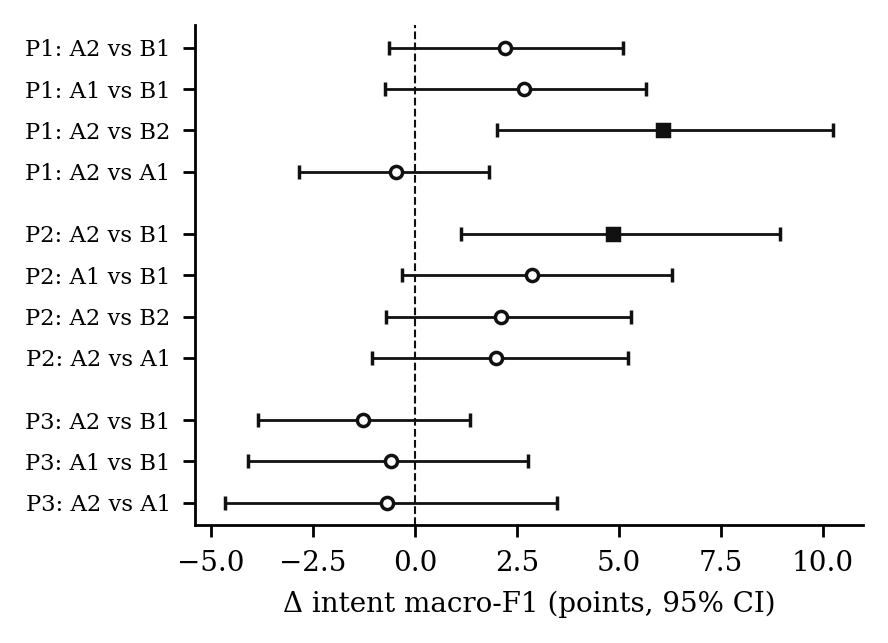
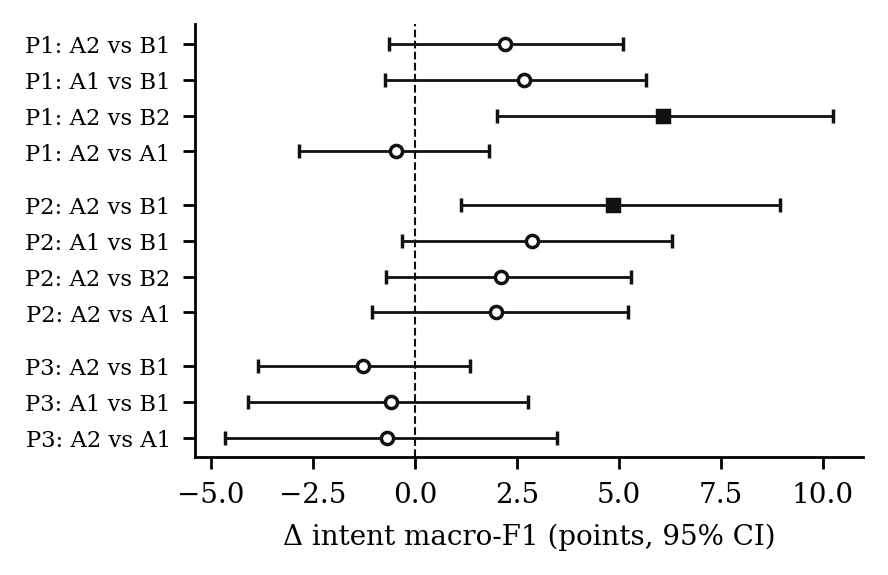
Trim paper toward 8 pages, fix author block and acknowledgment

diff --git a/paper/main.tex b/paper/main.tex
@@ -20,7 +20,8 @@
 
 \author{
 \IEEEauthorblockN{Mihir Bhati\IEEEauthorrefmark{1}}
-\IEEEauthorblockA{\textit{School of Computer Science and Engineering}\\
+\IEEEauthorblockA{\textit{School of Computer Science}\\
+\textit{and Engineering}\\
 \textit{Vellore Institute of Technology}\\
 Chennai, India\\
 24BCE5341\\
@@ -28,14 +29,16 @@ Chennai, India\\
 email@vitstudent.ac.in}
 \and
 \IEEEauthorblockN{Ahana Sharan\IEEEauthorrefmark{1}}
-\IEEEauthorblockA{\textit{School of Computer Science and Engineering}\\
+\IEEEauthorblockA{\textit{School of Computer Science}\\
+\textit{and Engineering}\\
 \textit{Vellore Institute of Technology}\\
 Chennai, India\\
 24BCE5334\\
 ahana.sharan2024@vitstudent.ac.in}
 \and
 \IEEEauthorblockN{Vijayaprabakaran K}
-\IEEEauthorblockA{\textit{School of Computer Science and Engineering}\\
+\IEEEauthorblockA{\textit{School of Computer Science}\\
+\textit{and Engineering}\\
 \textit{Vellore Institute of Technology}\\
 Chennai, India\\
 % TODO: add the guide's email
@@ -61,7 +64,7 @@ A task-oriented assistant turns an utterance such as \emph{``wake me up at seven
 
 Small instruction-tuned language models (LMs) remove the training step. A 3-billion-parameter model quantised to 4 bits runs on a laptop GPU with 4\,GB of memory, answers in under half a second and can follow a label inventory from a handful of examples. What it does not remove is design work. The developer still has to decide whether intent and slots are requested in one call or two, whether the prompt describes each label, which demonstrations go into the prompt, and whether out-of-scope (\oos) requests are rejected by the model or by a similarity threshold. These choices matter. With the model and data held fixed, the twelve combinations we study span 13.5 points of development intent macro-F1 on one project (0.839 to 0.974) and 16.0 points on another (0.738 to 0.898).
 
-Work on automating LM use has concentrated on rewriting instruction text~\cite{zhou2023large,pryzant2023automatic,yang2024large}, tuning the demonstrations of a fixed program~\cite{khattab2024dspy}, or replacing the LM with a fine-tuned small model~\cite{viswanathan2023prompt2model}. These methods optimise a single output metric. None of them produces a joint intent and span output with a rejection decision under hard deployment constraints, and they are rarely compared with random search over the same space at the same budget, which is the standard control for any adaptive search method~\cite{bergstra2012random}. Without that control it is not possible to say whether the LM's reasoning contributed anything beyond trying several options.
+Work on automating LM use has concentrated on rewriting instruction text~\cite{zhou2023large,pryzant2023automatic,yang2024large}, tuning the demonstrations of a fixed program~\cite{khattab2024dspy}, or replacing the LM with a fine-tuned small model~\cite{viswanathan2023prompt2model}. None of these produces a joint intent and span output with a rejection decision under deployment constraints, and they are rarely compared with random search at the same budget, the standard control for adaptive search~\cite{bergstra2012random}. Without that control, the contribution of the LM's reasoning cannot be separated from simply trying several options.
 
 This paper asks whether an LM agent with a budget of four candidate evaluations can design an intent and slot pipeline that beats a generic prompt, random search, a human designer and a fine-tuned encoder trained on the same examples. The contributions are:
 \begin{enumerate}
@@ -79,33 +82,33 @@ This section focuses on an extensive survey of fifteen works that define the dat
 
 \subsection{NLU datasets and fine-tuned models}
 
-\emph{FitzGerald et al.}~\cite{fitzgerald2023massive} released MASSIVE, one million utterances in 51 languages localised by professional translators from the English SLURP corpus~\cite{bastianelli2020slurp}. Each utterance carries one of 60 intents across 18 scenarios and span annotations over 55 slot types. Their baselines fine-tune XLM-R and mT5 on the full training split, so the reported scores assume thousands of labelled utterances per language. We use the English portion and restrict each project to a few scenarios, which turns MASSIVE into a set of small, realistic single-product inventories.
+\emph{FitzGerald et al.}~\cite{fitzgerald2023massive} released MASSIVE, one million utterances in 51 languages localised by professional translators from the English SLURP corpus~\cite{bastianelli2020slurp}. Each utterance carries one of 60 intents across 18 scenarios and span annotations over 55 slot types. Their XLM-R and mT5 baselines are fine-tuned on the full training split. We use the English portion and restrict each project to a few scenarios, which yields small, realistic single-product inventories.
 
-\emph{Larson et al.}~\cite{larson2019evaluation} built CLINC150, 150 intents over ten domains plus a separate set of queries that match none of them. They showed that classifiers with high in-scope accuracy recall few out-of-scope queries, whether rejection is done by a confidence threshold or by an extra ``out-of-scope'' class trained on examples. Their result is the reason our design space treats rejection as a factor in its own right and our metrics report \oos{} F1 separately from intent accuracy.
+\emph{Larson et al.}~\cite{larson2019evaluation} built CLINC150, 150 intents over ten domains plus a separate set of queries that match none of them. They showed that classifiers with high in-scope accuracy recall few out-of-scope queries, whether rejection is done by a confidence threshold or by an extra ``out-of-scope'' class trained on examples. For this reason our design space treats rejection as a separate factor and we report \oos{} F1 separately.
 
 \emph{Chen et al.}~\cite{chen2019bert} predicted the intent from BERT's sentence representation and the slot tags from its token representations, training both objectives together. On ATIS and Snips, joint training improved intent accuracy, slot F1 and whole-utterance accuracy over earlier recurrent and attention-based models. Joint encoders remain the reference architecture for intent and slot tasks, and our fine-tuned baseline follows the same two-head design.
 
-\emph{Conneau et al.}~\cite{conneau2020unsupervised} trained XLM-R, a masked language model, on 2.5\,TB of filtered web text in 100 languages and reported strong cross-lingual transfer on classification, question answering and named entity recognition. MASSIVE adopts XLM-R as its main encoder baseline. We fine-tune its base version twice: on the same ten utterances per intent the agent sees, and on the project's full training split.
+\emph{Conneau et al.}~\cite{conneau2020unsupervised} trained XLM-R, a masked language model, on 2.5\,TB of filtered web text in 100 languages and reported strong cross-lingual transfer on classification, question answering and named entity recognition. We fine-tune its base version on the ten utterances per intent the agent sees and on each project's full training split.
 
 \subsection{In-context learning and example selection}
 
-\emph{Brown et al.}~\cite{brown2020language} showed that a sufficiently large autoregressive LM can perform a new task from an instruction and a few demonstrations placed in its prompt, without any weight update, and that accuracy rises with the number of demonstrations and with model size. Once the task is specified through the prompt, what the prompt contains and how many calls are made become design decisions; our design space enumerates the decisions that matter for intent and slot output.
+\emph{Brown et al.}~\cite{brown2020language} showed that a sufficiently large autoregressive LM can perform a new task from an instruction and a few demonstrations placed in its prompt, without any weight update, and that accuracy rises with the number of demonstrations and with model size. Once a task is specified through the prompt, its contents and the number of calls become design decisions, which our design space enumerates.
 
 \emph{Liu et al.}~\cite{liu2022makes} retrieved, for each test input, the training examples nearest to it in a sentence-encoder space and placed them in the prompt. Nearest-neighbour demonstrations beat randomly sampled ones on sentiment analysis, table-to-text generation and open-domain question answering. Our similarity-based example selection applies the same idea with a lexical TF-IDF index, which costs nothing at request time and needs no second model.
 
 \subsection{Automatic prompt and program optimisation}
 
-\emph{Zhou et al.}~\cite{zhou2023large} proposed Automatic Prompt Engineer (APE): an LM writes candidate instructions from input--output pairs, each candidate is scored on held-out examples, and the best is kept or resampled. The generated instructions matched or exceeded human-written ones on most of the instruction-induction tasks they tested. APE searches over free text, so its output is a prompt rather than a pipeline, and its tasks have a single label or string as output.
+\emph{Zhou et al.}~\cite{zhou2023large} proposed Automatic Prompt Engineer (APE): an LM writes candidate instructions from input--output pairs, each candidate is scored on held-out examples, and the best is kept or resampled. The generated instructions matched or exceeded human-written ones on most instruction-induction tasks tested. APE's output is a prompt, not a pipeline, for tasks with a single label or string as output.
 
 \emph{Pryzant et al.}~\cite{pryzant2023automatic} described the errors of a prompt on a minibatch in natural language, treated that description as a ``gradient'', edited the prompt against it, and kept the best edits with beam search and a bandit procedure. The method improved initial prompts on several binary classification tasks. Our revision phase borrows the idea of showing the model an error report, but confines its answer to one move in a discrete space, so a wrong suggestion costs one evaluation and cannot produce an unrunnable pipeline.
 
 \emph{Yang et al.}~\cite{yang2024large} cast optimisation as prompting (OPRO): the meta-prompt lists earlier solutions with their scores and the LM proposes a new one. They applied it to small regression and travelling-salesman instances and to instruction search on GSM8K and Big-Bench Hard. OPRO needs many proposal rounds; our setting allows one, because every candidate evaluation costs about a hundred model calls on development data.
 
-\emph{Khattab et al.}~\cite{khattab2024dspy} introduced DSPy, in which an LM pipeline is written as declarative modules and a compiler bootstraps demonstrations and instructions to maximise a user-supplied metric. Compiled pipelines let small open models compete with larger prompted ones on multi-hop question answering and math word problems. DSPy optimises the contents of a pipeline whose structure the developer has written; our agent chooses the structure itself, including how many calls a request takes and whether rejection happens before the model is called.
+\emph{Khattab et al.}~\cite{khattab2024dspy} introduced DSPy, in which an LM pipeline is written as declarative modules and a compiler bootstraps demonstrations and instructions to maximise a user-supplied metric. Compiled pipelines let small open models compete with larger prompted ones on multi-hop question answering and math word problems. DSPy optimises the contents of a structure the developer writes; our agent chooses the structure, including the number of calls per request and where rejection happens.
 
 \subsection{From task description to deployable system}
 
-\emph{Viswanathan et al.}~\cite{viswanathan2023prompt2model} built Prompt2Model, which takes a task description with a few examples, retrieves related datasets and a pretrained model, generates further training data with an LM and fine-tunes a small model for deployment. Their models outperformed the prompting LM that generated the data on some of their three test tasks. It is the closest work to ours in intent, a deployable artefact from a description, but it requires training and it was not evaluated on slot filling or out-of-scope rejection.
+\emph{Viswanathan et al.}~\cite{viswanathan2023prompt2model} built Prompt2Model, which takes a task description with a few examples, retrieves related datasets and a pretrained model, generates further training data with an LM and fine-tunes a small model for deployment. It is the closest work to ours in aim, a deployable artefact from a description, but it requires training and was not evaluated on slot filling or out-of-scope rejection.
 
 \subsection{Agents and self-correction}
 
@@ -256,7 +259,7 @@ We use the English (en-US) portion of MASSIVE~1.1~\cite{fitzgerald2023massive}, 
 
 \begin{table}[t]
 \centering
-\caption{The three projects built from MASSIVE en-US}
+\caption{The three projects built from MASSIVE en-US. Every development set has 80 in-scope and 20 \oos{} utterances.}
 \label{tab:projects}
 \small
 \setlength{\tabcolsep}{4pt}
@@ -270,12 +273,9 @@ P2 productivity & calendar, email, lists & 10 & 26 & 100 & 250\,+\,50 \\
 P3 ordering, travel & takeaway, transport & 6 & 19 & 60 & 167\,+\,33 \\
 \bottomrule
 \end{tabular}}
-\vspace{2pt}
-
-\footnotesize Development sets: 80 in-scope + 20 \oos{} for every project. P3 was held out.
 \end{table}
 
-P3 was held out completely. Its description was written and committed at the start, but every split, including development, was locked by a data-access object that raises an error until it is released with the hash of the freeze commit. P1 and P2 were used for all development. The protocol, thresholds, budgets, the selected design of every system and all code were then frozen in one commit; only after that were the test sets and P3 released.
+P3 was held out completely: its description was committed at the start, but every split, including development, was locked by a data-access object that raises an error until released with the hash of the freeze commit. All development used P1 and P2. The protocol, thresholds, budgets, every system's selected design and all code were then frozen in one commit, and only after that were the test sets and P3 released.
 
 \subsection{Model and environment}
 
@@ -315,7 +315,7 @@ A2 agent, factor-wise planner & 0.898 / \textbf{0.699} / 0.865 & \textbf{0.872} 
 \end{tabular}}
 \end{table*}
 
-Table~\ref{tab:main} gives the test results and Fig.~\ref{fig:intent} the intent scores. The selected designs were: A2 schema-guided with similarity examples and model rejection on P1 and P2, and joint with similarity examples and model rejection on P3; A1 two-stage with similarity examples on P1 and schema-guided with fixed examples on P2 and P3, all with model rejection. In each project A2's choice coincides with B4-best, the best of all twelve designs on development data.
+Table~\ref{tab:main} and Fig.~\ref{fig:intent} give the test results. The selected designs were: A2 schema-guided with similarity examples and model rejection on P1 and P2, and joint with similarity examples and model rejection on P3; A1 two-stage with similarity examples on P1 and schema-guided with fixed examples on P2 and P3, all with model rejection. In each project A2's choice coincides with B4-best, the best of all twelve designs on development data.
 
 \begin{figure}[t]
 \centering
@@ -324,27 +324,7 @@ Table~\ref{tab:main} gives the test results and Fig.~\ref{fig:intent} the intent
 \label{fig:intent}
 \end{figure}
 
-\emph{Success rule.} Table~\ref{tab:rule} checks the preregistered rule. A2 passes on P1 and P2 and fails on P3, where intent F1 falls by 1.3 points. A1 passes on P1 and P2 and fails on P3 on both intent and entity F1. Schema validity after repair was at least 0.997 for every agent run, and both agents' 95th-percentile latencies were within the limit (P1: A1 0.97\,s, A2 0.89\,s against 1.22\,s; P2: A1 0.77\,s, A2 1.08\,s against 1.67\,s). The median latency of A2 was 0.68\,s and 0.64\,s, against 0.45\,s and 0.41\,s for B1.
-
-\begin{table}[t]
-\centering
-\caption{Success rule against B1 on test (points). Intent must gain $\ge$2.0, entity must not lose more than 2.0.}
-\label{tab:rule}
-\small
-\setlength{\tabcolsep}{4pt}
-\resizebox{\columnwidth}{!}{%
-\begin{tabular}{@{}lcccc@{}}
-\toprule
- & \multicolumn{2}{c}{A1} & \multicolumn{2}{c}{A2} \\
-\cmidrule(lr){2-3}\cmidrule(l){4-5}
-Project & $\Delta$ intent / entity & Rule & $\Delta$ intent / entity & Rule \\
-\midrule
-P1 & +2.7 / +1.3 & pass & +2.2 / +7.3 & pass \\
-P2 & +2.9 / +2.7 & pass & +4.9 / +5.5 & pass \\
-P3 & $-$0.6 / $-$2.3 & fail & $-$1.3 / +14.6 & fail \\
-\bottomrule
-\end{tabular}}
-\end{table}
+\emph{Success rule.} Against B1, A2 changed intent / entity F1 by +2.2 / +7.3 points on P1, +4.9 / +5.5 on P2 and $-$1.3 / +14.6 on P3; A1 by +2.7 / +1.3, +2.9 / +2.7 and $-$0.6 / $-$2.3. Both agents therefore pass the rule on P1 and P2 and fail it on P3. Schema validity after repair was at least 0.997 in every agent run, and 95th-percentile latencies were within the limit (P1: A1 0.97\,s, A2 0.89\,s against 1.22\,s; P2: A1 0.77\,s, A2 1.08\,s against 1.67\,s). A2's median latency was 0.68\,s and 0.64\,s, against 0.45\,s and 0.41\,s for B1.
 
 \emph{Significance.} Fig.~\ref{fig:ci} shows the paired intervals for intent macro-F1. A2's gain over B1 is significant on P2 (+4.9, 95\% CI [+1.1, +8.9]) but not on P1 (+2.2, [$-$0.6, +5.1]); on P3 the loss is not significant ($-$1.3, [$-$3.8, +1.4]). For entity F1, A2's gains over B1 are significant on all three projects: +7.3 [+0.8, +14.5] on P1, +5.5 [+0.3, +11.1] on P2 and +14.6 [+9.0, +21.3] on P3. None of A1's differences from B1 is significant. On test data 300 or 200 utterances give intervals about $\pm$3 points wide, so a two-point improvement, the threshold of the success rule, can pass the rule without being significant, as on P1.
 
@@ -363,12 +343,12 @@ Against the human designer, A2 was 6.1 points higher in intent F1 on P1 (95\% CI
 
 \subsection{Agent against fine-tuned encoders}
 
-Trained on the same ten utterances per intent, XLM-R (B3-k) was 8.9, 7.2 and 11.2 points below A2 in intent F1 and below it in entity F1 on all three projects. Its rejection by maximum softmax probability gave \oos{} F1 between 0.505 and 0.568, against 0.767 to 0.865 for A2. With the full training split, 10 to 32 times more labelled data, XLM-R (B3-full) exceeded A2 in entity F1 by 4.6 to 24.3 points and in intent F1 on P2 and P3, but its \oos{} F1 stayed below 0.61. The LM pipeline is therefore the better choice when only a few examples per intent are available, and its rejection is better in every data condition we tested; a fine-tuned encoder remains stronger at span extraction when thousands of annotated utterances exist.
+Trained on the same ten utterances per intent, XLM-R (B3-k) was 8.9, 7.2 and 11.2 points below A2 in intent F1 and below it in entity F1 on all three projects. Its rejection by maximum softmax probability gave \oos{} F1 between 0.505 and 0.568, against 0.767 to 0.865 for A2. With the full training split, 10 to 32 times more labelled data, XLM-R (B3-full) exceeded A2 in entity F1 by 4.6 to 24.3 points and in intent F1 on P2 and P3, but its \oos{} F1 stayed below 0.61. With a few examples per intent the LM pipeline is the better choice, and its rejection was better in every data condition tested; with thousands of annotated utterances a fine-tuned encoder extracts spans better.
 
 \subsection{Why factor-wise planning worked}
 \label{sec:trace}
 
-Table~\ref{tab:trace} lists A2's four development candidates. On both P1 and P2 the planning model ranked fixed examples above similarity examples and the threshold policy above model rejection; on P1 its stated reason was that the threshold avoids model calls. Both preferences were wrong for these projects, and the first three candidates scored between 0.762 and 0.869. The construction of $c_2$ nevertheless measured similarity examples, which won, and the revision step, given the error report and the one-factor moves from $c_2$, switched its rejection policy to the model label. That single move raised development intent F1 by 10.5 points on P1 and 9.6 on P2 and reached the best of the twelve designs. A1, which names designs directly, began with B1's design on both projects, never combined schema guidance with similarity examples, and spent its unrestricted revision on a threshold design that scored 0.862 on P1 and 0.790 on P2; it stopped at 0.958 and 0.841. The gain comes from the structure that forces each factor to be tested and from a revision restricted to one-factor moves, not from better first guesses by the model.
+Table~\ref{tab:trace} lists A2's four development candidates. On both P1 and P2 the planning model ranked fixed examples above similarity examples and the threshold policy above model rejection; on P1 its stated reason was that the threshold avoids model calls. Both preferences were wrong for these projects, and the first three candidates scored between 0.762 and 0.869. The construction of $c_2$ nevertheless measured similarity examples, which won, and the revision step, given the error report and the one-factor moves from $c_2$, switched its rejection policy to the model label. That single move raised development intent F1 by 10.5 points on P1 and 9.6 on P2 and reached the best of the twelve designs. A1, which names designs directly, began with B1's design on both projects, never combined schema guidance with similarity examples, and spent its unrestricted revision on a threshold design that scored 0.862 on P1 and 0.790 on P2; it stopped at 0.958 and 0.841. The gain comes from a structure that forces each factor to be tested and restricts revision to one-factor moves, not from better first guesses.
 
 \begin{table}[t]
 \centering
@@ -422,18 +402,17 @@ without schema repair & 0.907 & 0.852 & 0.889 \\
 
 \subsection{Cost and reproducibility}
 
-Designing one project with A2 cost about 397 logical model calls: two for enrichment, two for planning and about 393 for running four candidates on 100 development utterances (two-stage designs need two calls per request, and threshold rejections need none). Exhaustive evaluation of all twelve designs costs roughly three times as much. At the measured median latency this is about three minutes of model time per project, against 38 minutes for the human designer on P1.
-
-Every reported metric was recomputed from the saved predictions of its run: 99 of 99 runs reproduced exactly, and an independent implementation of intent macro-F1, accuracy and \oos{} precision, recall and F1 agreed to nine decimal places. Retraining B0 from scratch reproduced all its test metrics exactly.
+Designing one project with A2 cost about 397 logical model calls: two for enrichment, two for planning and about 393 for running four candidates on 100 development utterances (two-stage designs need two calls per request, and threshold rejections need none), about a third of exhaustive evaluation and about three minutes of model time per project, against 38 minutes for the human designer on P1. Every reported metric was recomputed from the saved predictions of its run: 99 of 99 runs reproduced exactly, and an independent implementation of intent macro-F1, accuracy and \oos{} precision, recall and F1 agreed to nine decimal places. Retraining B0 from scratch reproduced all its test metrics exactly.
 
 %=====================================================================
 \section{Conclusion}
 %=====================================================================
 
-We built an agent that turns a project specification into a deployable intent and slot pipeline by analysing the specification, planning candidates from a twelve-design space, evaluating four of them on 100 development utterances, revising one factor, selecting under explicit constraints and exporting a hash-verified package, using a single 3-billion-parameter model on a laptop. Under a protocol frozen before any test data or the held-out project was seen, the factor-wise agent chose the development-optimal design on all three projects. It met the preregistered success rule against a generic prompt on both development projects, with intent gains of 2.2 and 4.9 points and entity gains of 7.3 and 5.5 points, the P2 gains being significant. On the held-out project its intent F1 was 1.3 points lower than the generic prompt, a difference within the confidence interval, while its entity F1 was 14.6 points higher. The agent outperformed the human designer significantly on one of two projects and scored above XLM-R trained on the same examples in intent, entity and out-of-scope F1 on every project. The development trace shows that the improvement came from planning that tests every factor and revises one factor at a time, since the model's own preferences for two of the three factors were wrong.
+We built an agent that turns a project specification into a deployable, hash-verified intent and slot pipeline by evaluating four of twelve designs on 100 development utterances, using one 3-billion-parameter model on a laptop. Under a protocol frozen before the test data and the held-out project were seen, the factor-wise agent chose the development-optimal design on all three projects and met the preregistered success rule on both development projects, with intent gains of 2.2 and 4.9 points over a generic prompt. Its entity gains were significant on all three projects, including 14.6 points on the held-out project, where intent F1 fell by a non-significant 1.3 points. It scored above XLM-R trained on the same examples on every project. The gain came from planning that tests every factor and revises one at a time, not from the model's first preferences.
 
 \section*{Acknowledgment}
-The authors thank Vijayaprabakaran K for guidance throughout this work. MASSIVE is used under the CC~BY~4.0 licence. A chat assistant was used by the human-designer baseline on P2, as stated in Section~\ref{sec:results}; % TODO: add the AI-use statement your department requires for writing and code assistance.
+The authors thank Vijayaprabakaran K for guidance throughout this work. MASSIVE is used under the CC~BY~4.0 licence. The human-designer baseline on P2 was assisted by a chat assistant, as stated in Section~\ref{sec:results}.
+% TODO: add the AI-use statement your department requires for writing and code assistance.
 
 \bibliographystyle{IEEEtran}
 \bibliography{references}

diff --git a/scripts/make_paper_figures.py b/scripts/make_paper_figures.py
@@ -87,7 +87,7 @@ def intent_bars():
     systems = [("B0", "B0", "#ffffff", "//"), ("B1", "B1", "#bbbbbb", ""), ("B2", "B2", "#ffffff", ".."),
                ("B3-k", "B3-k", "#777777", ""), ("B4-random", "B4", "#dddddd", "xx"), ("A1", "A1", "#999999", "\\\\"),
                ("A2", "A2", "#222222", "")]
-    fig, ax = plt.subplots(figsize=(3.45, 2.2))
+    fig, ax = plt.subplots(figsize=(3.45, 2.0))
     width = 0.11
     for i, (sid, label, fill, hatch) in enumerate(systems):
         for j, p in enumerate(("P1", "P2", "P3")):
@@ -106,7 +106,7 @@ def intent_bars():
 
 def forest():
     pairs = ["A2 vs B1", "A1 vs B1", "A2 vs B2", "A2 vs A1"]
-    fig, ax = plt.subplots(figsize=(3.45, 2.6))
+    fig, ax = plt.subplots(figsize=(3.45, 2.25))
     y, ticks = 0, []
     for p in ("P1", "P2", "P3"):
         boot = FINAL["projects"][p]["bootstrap"]
